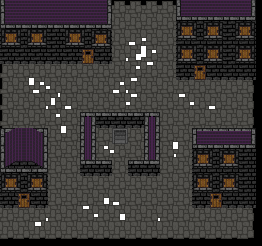
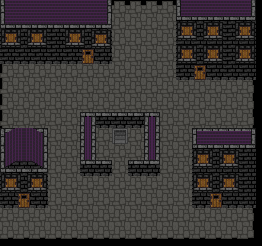
Overworld

diff --git a/core/src/main/java/com/lovecraftpixel/lovecraftpixeldungeon/levels/OverworldLevel.java b/core/src/main/java/com/lovecraftpixel/lovecraftpixeldungeon/levels/OverworldLevel.java
@@ -33,7 +33,6 @@ import com.lovecraftpixel.lovecraftpixeldungeon.actors.mobs.Mob;
 import com.lovecraftpixel.lovecraftpixeldungeon.levels.rooms.Room;
 import com.lovecraftpixel.lovecraftpixeldungeon.scenes.GameScene;
 import com.lovecraftpixel.lovecraftpixeldungeon.tiles.CustomTiledVisual;
-import com.lovecraftpixel.lovecraftpixeldungeon.utils.BArray;
 import com.watabou.noosa.Group;
 import com.watabou.utils.Bundle;
 import com.watabou.utils.PathFinder;
@@ -97,16 +96,16 @@ public class OverworldLevel extends Level {
 	@Override
 	public Group addVisuals() {
 		if(state == State.START){
-			CustomTiledVisual vis = new ExtraTilesTown();
-			vis.pos(0, 0);
-			customTiles.add(vis);
-			((GameScene) LovecraftPixelDungeon.scene()).addCustomTile(vis);
+			CustomTiledVisual town = new ExtraTilesTown();
+			town.pos(0, 0);
+			customTiles.add(town);
+			((GameScene) LovecraftPixelDungeon.scene()).addCustomTile(town);
 		}
 		if(state == State.WITCH){
-			CustomTiledVisual vis = new ExtraTilesWitch();
-			vis.pos(0, 0);
-			customTiles.add(vis);
-			((GameScene) LovecraftPixelDungeon.scene()).addCustomTile(vis);
+			CustomTiledVisual witch = new ExtraTilesWitch();
+			witch.pos(0, 0);
+			customTiles.add(witch);
+			((GameScene) LovecraftPixelDungeon.scene()).addCustomTile(witch);
 		}
 		return super.addVisuals();
 	}
@@ -138,7 +137,7 @@ public class OverworldLevel extends Level {
 				progress();
 			}
 			if (state == State.WITCH
-					&& ((Room)new Room().set(10, 8, 12, 10)).inside(cellToPoint(cell))){
+					&& ((Room)new Room().set(0, 13, 2, 15)).inside(cellToPoint(cell))){
 				progress();
 			}
 		}
@@ -165,19 +164,11 @@ public class OverworldLevel extends Level {
 		cleanWalls();
 
 		exit = entrance = 0;
-		for (int i = 0; i < length(); i ++)
-			if (map[i] == Terrain.ENTRANCE)
-				entrance = i;
-			else if (map[i] == Terrain.EXIT)
-				exit = i;
-
-		BArray.setFalse(visited);
-		BArray.setFalse(mapped);
 
 		for (Blob blob: blobs.values()){
 			blob.fullyClear();
 		}
-		addVisuals(); //this also resets existing visuals
+		addVisuals();
 
 		GameScene.resetMap();
 		Dungeon.observe();
@@ -187,12 +178,10 @@ public class OverworldLevel extends Level {
 		switch (state){
 			case START:
 				state = State.WITCH;
-				Dungeon.hero.pos = 11+8*16;
 				changeMap(MAP_WITCH);
 				break;
 			case WITCH:
 				state = State.START;
-				Dungeon.hero.pos = 13+2*16;
 				changeMap(MAP_START);
 				break;
 		}
@@ -233,14 +222,14 @@ public class OverworldLevel extends Level {
 				/*5*/ s, s, s, s, s, s, s, s, s, s, s, s, s, s, s, s,
 				/*6*/ s, s, s, s, s, s, s, s, s, s, s, s, s, s, s, s,
 				/*7*/ s, s, s, s, s, s, s, s, s, s, s, s, s, s, s, s,
-				/*8*/ s, s, s, s, s, s, w, w, w, w, w, w, s, s, s, s,
-				/*9*/ s, s, s, s, s, s, s, s, w, s, w, w, s, s, s, s,
-				/*10*/s, s, s, s, s, s, s, s, w, w, w, s, s, s, s, s,
-				/*11*/s, s, s, s, s, s, w, w, w, w, w, s, s, s, s, s,
-				/*12*/s, s, s, s, s, s, w, w, w, w, w, s, s, s, s, s,
-				/*13*/s, s, s, s, s, s, s, s, s, s, s, s, s, s, s, s,
-				/*14*/s, s, s, s, s, s, s, s, s, s, s, s, s, s, s, s,
-				/*15*/s, s, s, s, s, s, s, s, s, s, s, s, s, s, s, s,
+				/*8*/ s, s, s, s, s, s, s, s, s, s, s, s, s, s, s, s,
+				/*9*/ s, s, s, s, s, s, s, s, s, s, s, s, s, s, s, s,
+				/*10*/s, s, s, s, s, s, s, s, s, s, s, s, s, s, s, s,
+				/*11*/s, w, w, w, w, w, w, s, s, s, s, s, s, s, s, s,
+				/*12*/s, s, s, w, s, w, w, s, s, s, s, s, s, s, s, s,
+				/*13*/s, s, s, w, w, w, s, s, s, s, s, s, s, s, s, s,
+				/*14*/s, w, w, w, w, w, s, s, s, s, s, s, s, s, s, s,
+				/*15*/s, w, w, w, w, w, s, s, s, s, s, s, s, s, s, s,
 				/*16*/s, s, s, s, s, s, s, s, s, s, s, s, s, s, s, s,
 			};
 
